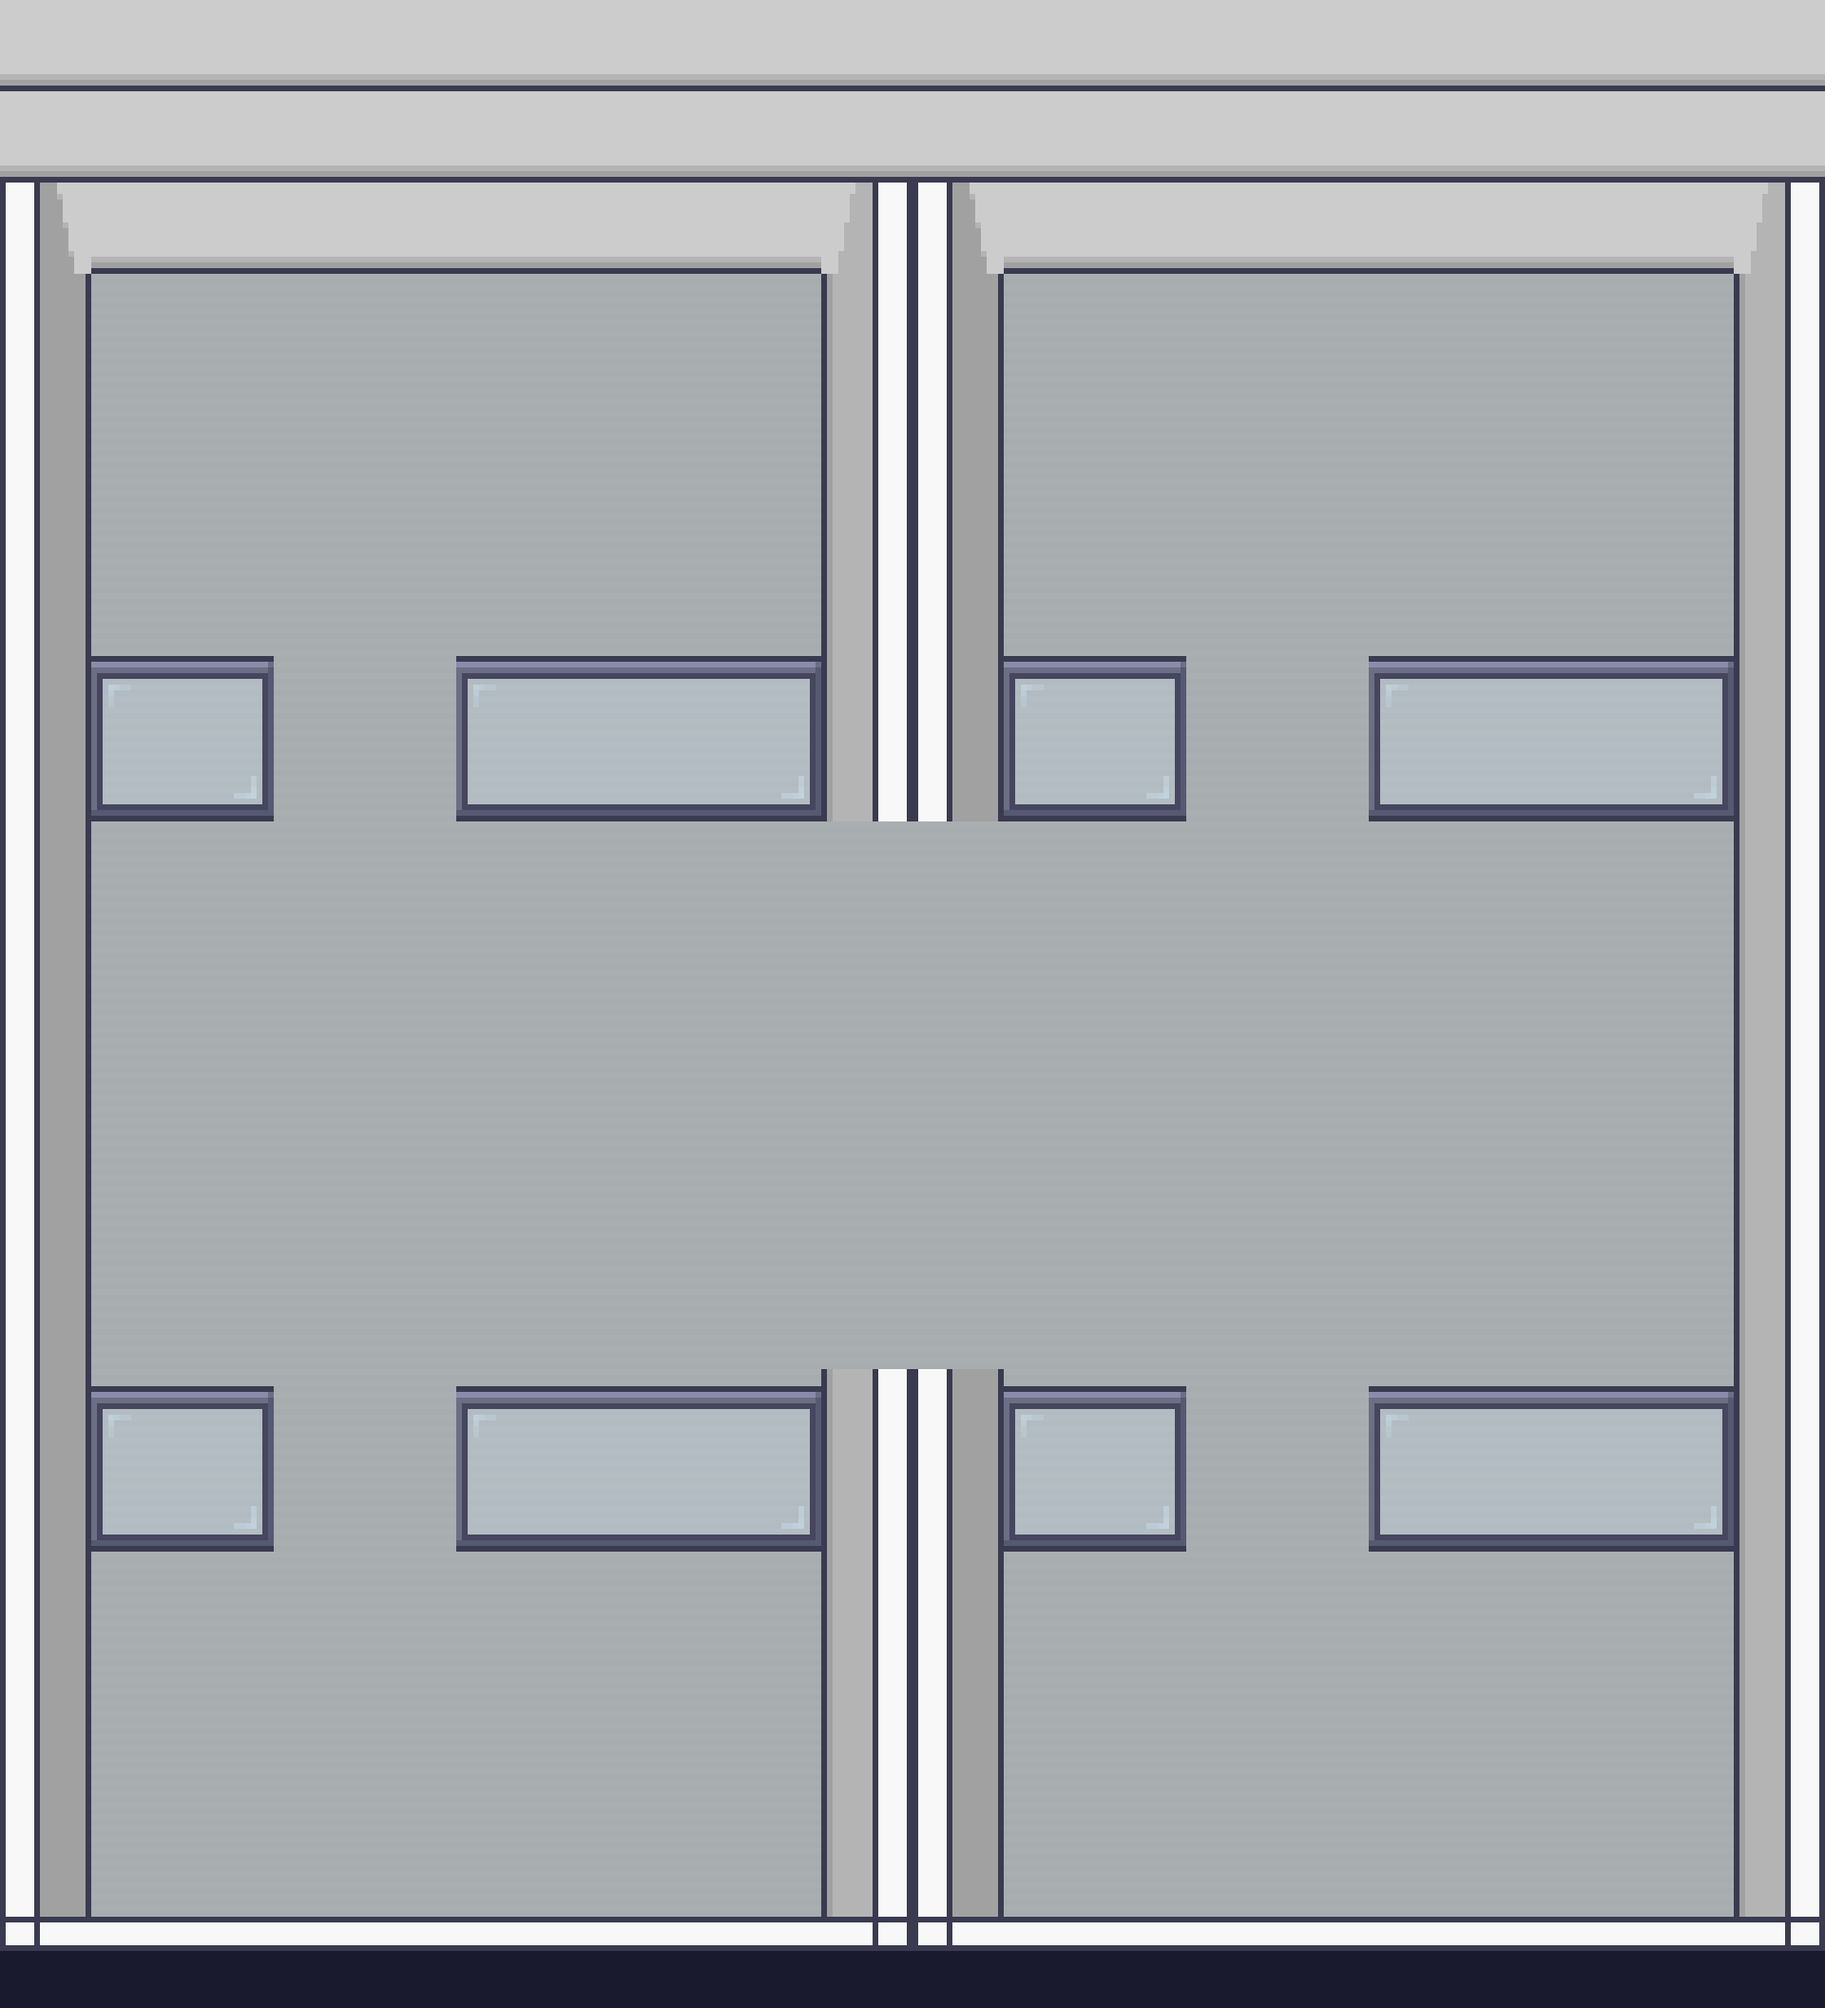
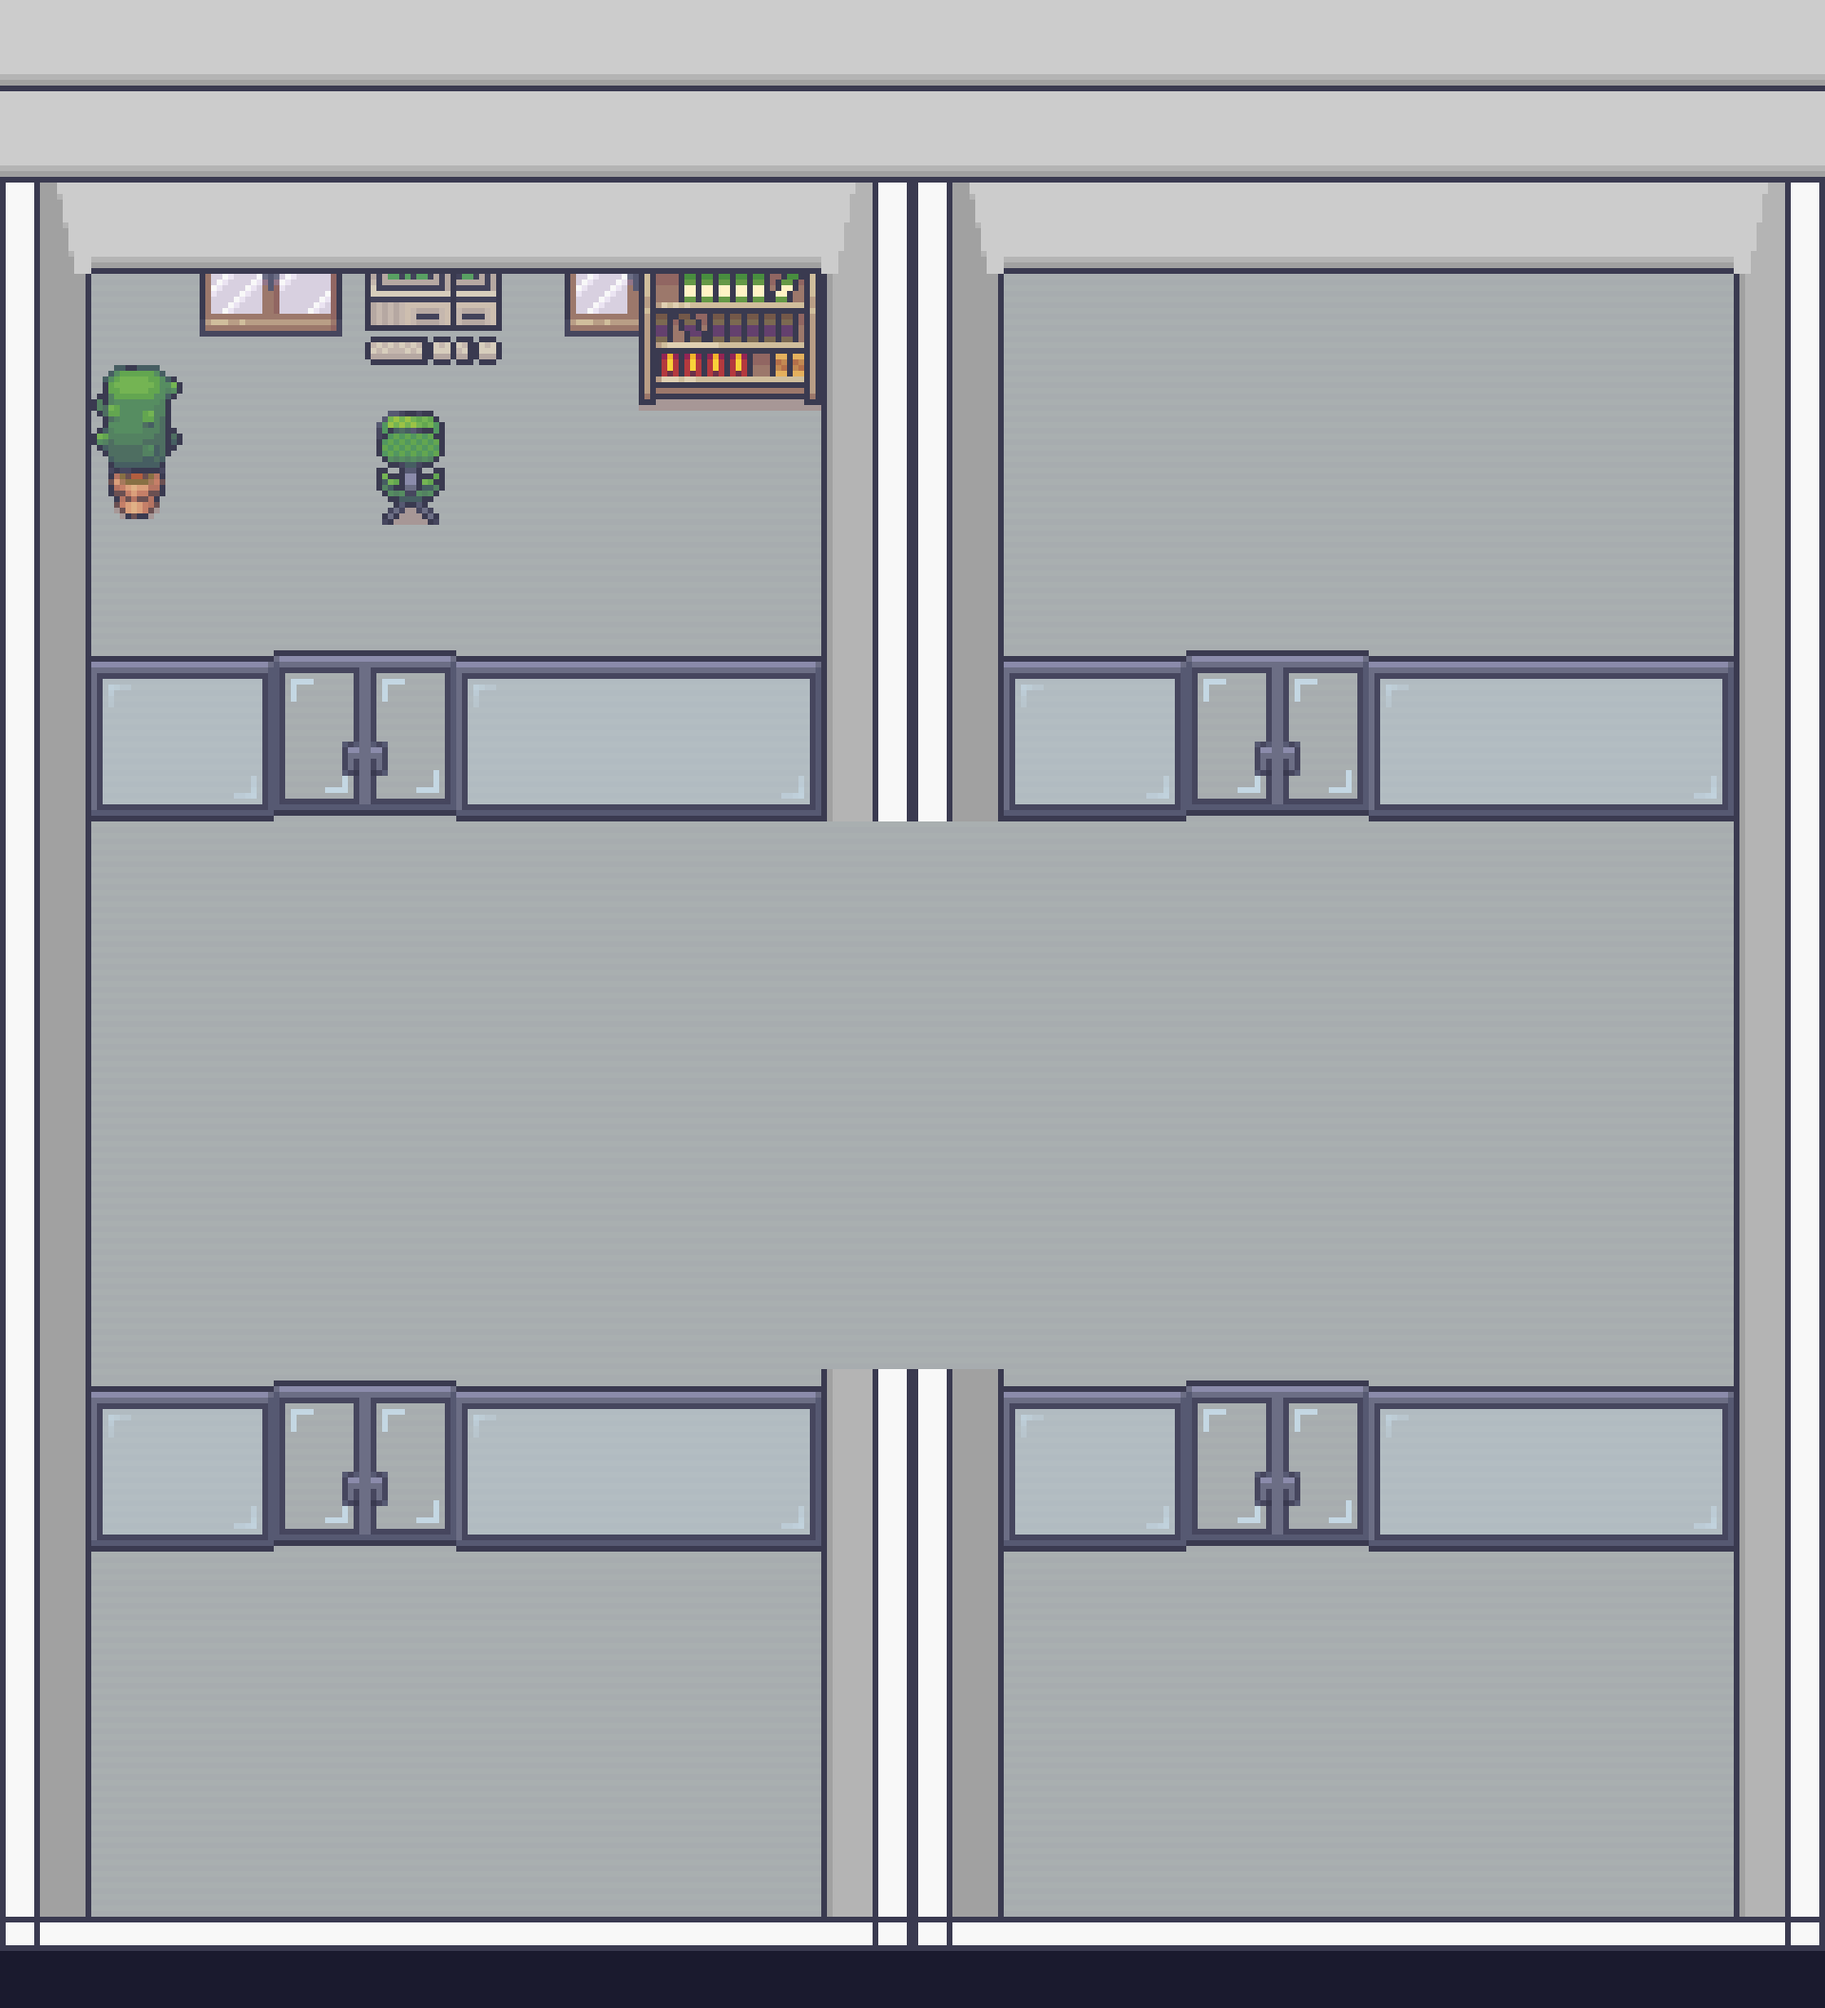
Furnish Rex's office: windows, desk, chair, bookshelf, plant

diff --git a/src/scenes/HQScene.ts b/src/scenes/HQScene.ts
@@ -27,6 +27,10 @@ export class HQScene extends Phaser.Scene {
     this.load.image('walls3d', `${TILESET_BASE}/Room_Builder_3d_walls_32x32.png`);
     this.load.image('basement', `${THEME_BASE}/14_Basement_32x32.png`);
     this.load.image('glass_door', 'assets/tilesets/limezu/glass_door_closed.png');
+    this.load.image('classroom', `${THEME_BASE}/5_Classroom_and_library_32x32.png`);
+    this.load.image('generic_theme', `${THEME_BASE}/1_Generic_32x32.png`);
+    this.load.image('conference', `${THEME_BASE}/13_Conference_Hall_32x32.png`);
+    this.load.image('livingroom', `${THEME_BASE}/2_LivingRoom_32x32.png`);
   }
 
   create() {
@@ -36,12 +40,18 @@ export class HQScene extends Phaser.Scene {
     const w3dTs = map.addTilesetImage('walls3d', 'walls3d')!;
     const basementTs = map.addTilesetImage('basement', 'basement')!;
     const doorTs = map.addTilesetImage('glass_door', 'glass_door')!;
+    const classTs = map.addTilesetImage('classroom', 'classroom')!;
+    const genThemeTs = map.addTilesetImage('generic_theme', 'generic_theme')!;
+    const confTs = map.addTilesetImage('conference', 'conference')!;
+    const lrTs = map.addTilesetImage('livingroom', 'livingroom')!;
 
-    map.createLayer('floor', [floorTs])!.setDepth(0);
-    map.createLayer('walls', [wallTs])!.setDepth(1);
-    map.createLayer('walls3d', [w3dTs])!.setDepth(2);
-    map.createLayer('glass', [basementTs])!.setDepth(3);
-    map.createLayer('furniture', [doorTs])!.setDepth(4);
+    const allTs = [floorTs, wallTs, w3dTs, basementTs, doorTs, classTs, genThemeTs, confTs, lrTs];
+
+    map.createLayer('floor', allTs)!.setDepth(0);
+    map.createLayer('walls', allTs)!.setDepth(1);
+    map.createLayer('walls3d', allTs)!.setDepth(2);
+    map.createLayer('glass', allTs)!.setDepth(3);
+    map.createLayer('furniture', allTs)!.setDepth(4);
 
     this.setupCamera();
   }
